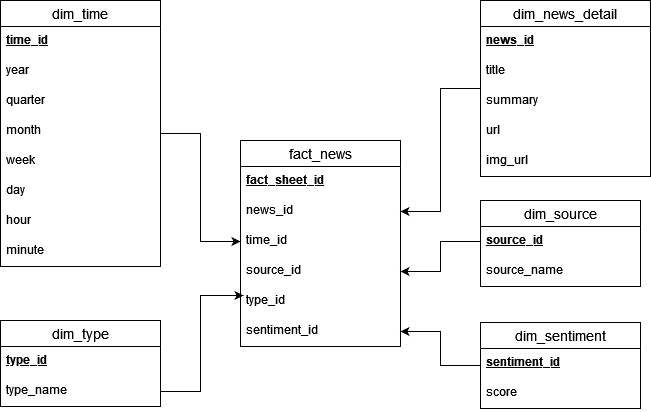
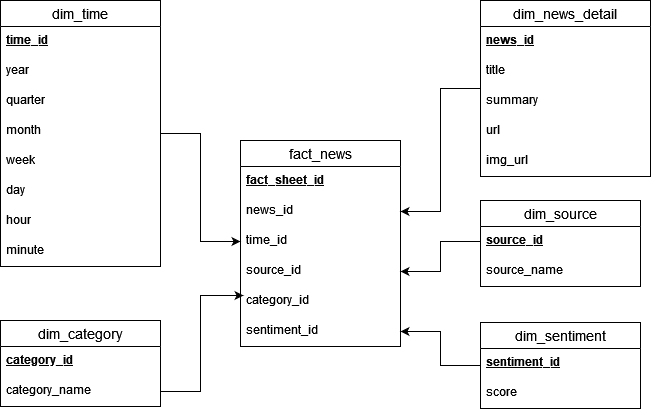
changed dim_type to dim_category for news_db

Changed region(s): [[0.0, 0.7864, 0.1843, 0.9029], [0.3687, 0.699, 0.4916, 0.7573], [0.0, 0.932, 0.1536, 0.9612]]

diff --git a/data_warehouse/import_news_data.py b/data_warehouse/import_news_data.py
@@ -29,12 +29,12 @@ insert_time_query = sql.SQL("""
     RETURNING time_id;
 """)
 
-insert_type_query = sql.SQL("""
-    INSERT INTO dim_type (type_name)
+insert_category_query = sql.SQL("""
+    INSERT INTO dim_category (category_name)
     VALUES (%s)
-    ON CONFLICT ON CONSTRAINT uq_dim_type_unique_values
-    DO UPDATE SET type_name = EXCLUDED.type_name
-    RETURNING type_id;
+    ON CONFLICT ON CONSTRAINT uq_dim_category_unique_values
+    DO UPDATE SET category_name = EXCLUDED.category_name
+    RETURNING category_id;
 """)
 
 insert_sentiment_query = sql.SQL("""
@@ -65,7 +65,7 @@ insert_news_detail_query = sql.SQL("""
 """)
 
 insert_data_query = sql.SQL("""
-    INSERT INTO fact_news (news_id, time_id, source_id, type_id, sentiment_id)
+    INSERT INTO fact_news (news_id, time_id, source_id, category_id, sentiment_id)
     VALUES (%s, %s, %s, %s, %s)
     ON CONFLICT ON CONSTRAINT uq_fact_sheet_unique_values
     DO NOTHING;
@@ -103,10 +103,10 @@ def insert_time(data, cursor):
     return time_id
 
 
-def insert_type(data, cursor):
-    cursor.execute(insert_type_query, (data,))
-    type_id = cursor.fetchone()[0]
-    return type_id
+def insert_category(data, cursor):
+    cursor.execute(insert_category_query, (data,))
+    category_id = cursor.fetchone()[0]
+    return category_id
 
 
 def insert_sentiment(data, cursor):
@@ -137,16 +137,16 @@ def insert_news_detail(data, cursor):
     return news_id
 
 
-def insert_data(data_type, data):
+def insert_data(category, data):
     try:
         cursor = connection.cursor()
         time_id = insert_time(data, cursor)
-        type_id = insert_type(data_type, cursor)
+        category_id = insert_category(category, cursor)
         sentiment_id = insert_sentiment(data, cursor)
         source_id = insert_source(data, cursor)
         news_id = insert_news_detail(data, cursor)
 
-        cursor.execute(insert_data_query, (news_id, time_id, source_id, type_id, sentiment_id))
+        cursor.execute(insert_data_query, (news_id, time_id, source_id, category_id, sentiment_id))
         connection.commit()
         print("Data successfully inserted into the database.")
     except Exception as e:
